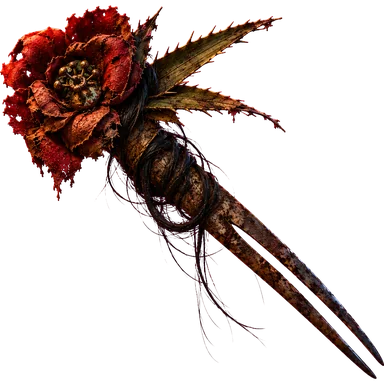
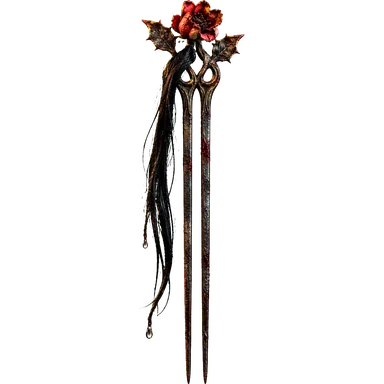
feat(art): 白虎煞／冥婚紅包／林投姐髮簪輪廓重生；抓交替水符改名水鬼名冊；修 webp 失敗時入市被相位閘吞掉；驗收修訂1
Claude-Session: https://claude.ai/code/session_012cazLzg3pXhigPN8g7A1EK

diff --git a/index.html b/index.html
@@ -2775,12 +2775,12 @@ const TRAITS = {
 const CURSES = [
   {n:"冥婚紅包",f:"curse",p:-5,d:"撿到就得娶",curse:true},
   {n:"魔神仔的芭樂",f:"curse",p:0,d:"每輪結束失血 1",curse:true,drain:1},
-  {n:"抓交替水符",f:"curse",p:-4,d:"水鬼的名冊",curse:true},
+  {n:"水鬼名冊",f:"curse",p:-4,d:"水鬼的名冊",curse:true},
   {n:"縛靈鎖",f:"curse",p:-6,d:"鎖魂之鏈",curse:true},
   {n:"白虎煞",f:"curse",p:-3,d:"沖煞入宅",curse:true},
 ];
 /* 詛咒依物件身分分流；舊存檔與異事物也走同一張表。p 僅保留行情用途。 */
-const CURSE_KIND={"冥婚紅包":"wedding","魔神仔的芭樂":"guava","抓交替水符":"water","縛靈鎖":"lock","白虎煞":"tiger","王船煞":"boat"};
+const CURSE_KIND={"冥婚紅包":"wedding","魔神仔的芭樂":"guava","水鬼名冊":"water","縛靈鎖":"lock","白虎煞":"tiger","王船煞":"boat"};
 function curseKind(it){ return it&&it.curse?(CURSE_KIND[it.n]||null):null; }
 function curseCount(p,kind){ return (p.bag||[]).filter(it=>curseKind(it)===kind).length; }
 const DIRS = {0:"南",1:"北",2:"西",3:"東"};
@@ -3249,7 +3249,7 @@ const APPR_PLAIN={
   "飼鬼甕":"2 隻小紙人，每拍交手燒掉對面一隻以上，全隊血 +1。",
   "冥婚紅包":"詛咒：誰袋裡有它，哪晚有標到東西（塞毒標、買下銷毀也算），收市就付 1 壽命禮金。可買下銷毀，或毒標塞給對手。",
   "魔神仔的芭樂":"詛咒：誰袋裡有它，每晚收市扣 1 壽命。可買下銷毀，或毒標塞給對手。",
-  "抓交替水符":"詛咒：持有者夜戰第一次折兵時，再拖一隻血最少的紙紮扣 1 血（每場一次）。可買下銷毀，或毒標塞給對手。",
+  "水鬼名冊":"詛咒：持有者夜戰第一次折兵時，再拖一隻血最少的紙紮扣 1 血（每場一次）。可買下銷毀，或毒標塞給對手。",
   "縛靈鎖":"詛咒：持有者夜戰第 1 拍，最能打的那隻攻擊 −2。可買下銷毀，或毒標塞給對手。",
   "白虎煞":"詛咒：誰袋裡有它，每輸一場夜戰多扣 1 壽命。可買下銷毀，或毒標塞給對手。",
 };
@@ -5212,7 +5212,7 @@ function pwCurseWater(sd,env){
   if(!target) return;
   target.hp-=count;
   pwRec(env,env.beat,sd.tag,null,target.id,"curse",count,false,"curseWater");
-  env.log.push(`💧 抓交替水符：${sd.p.name} 的另一隻紙紮受 ${count} 傷害`);
+  env.log.push(`💧 水鬼名冊：${sd.p.name} 的另一隻紙紮受 ${count} 傷害`);
   if(target.hp<=0) pwBurn(target,sd,env);
 }
 function pwLowest(sd,swarmOnly){
@@ -6128,14 +6128,15 @@ function lifeState(p){ if(!p.alive) return "state-dying"; const r=p.life/CFG.LIF
    human（選角模式不使用的遺留座位）沒有點陣圖，一律走舊 SVG 路徑。 */
 const ART_PIC=(()=>{ try{ return new URLSearchParams(typeof location!=="undefined"&&location.search?location.search:"").get("pic")!=="0"; }catch(e){ return true; } })();
 function picStem(roleId){ const s=CHAR_SVG[roleId]; return s&&roleId!=="human"?s:null; }
+const PIC_BAD=new Set(); /* 已確認載入失敗的 角色+氣色：之後重畫直接出 SVG，不再先插一個 <img>（img→svg 的非同步換手會讓相位閘 sigOf 誤判「手指下的東西變了」、吞掉 500ms 內的下一下點擊） */
 function picFail(img,roleId,stateCls){
-  img.onerror=null;
+  img.onerror=null; PIC_BAD.add(roleId+"|"+stateCls);
   const s=AVSVG[roleId], R=ROLES[roleId];
   const h=s?s.replace("state-healthy",stateCls):((R&&R.av)||"");
   const w=document.createElement("span"); w.innerHTML=h; img.replaceWith(...w.childNodes);
 }
 function avImgHTML(roleId,stateCls){
-  const stem=picStem(roleId); if(!ART_PIC||!stem) return null;
+  const stem=picStem(roleId); if(!ART_PIC||!stem||PIC_BAD.has(roleId+"|"+stateCls)) return null;
   return `<img class="pic ${stateCls}" src="assets/characters/${stem}-${stateCls.slice(6)}.webp?v=${RELEASE_VERSION}" alt="" draggable="false" onerror="picFail(this,'${roleId}','${stateCls}')">`;
 }
 /* 玩家物件 → 頭像 HTML（依壽命帶氣色）；沒有圖就退 SVG、再退 emoji */
@@ -6164,7 +6165,7 @@ const ITEM_IMG={
   山神庇佑:"shanshen",媽祖令旗:"flag",王爺劍:"sword",送王船:"wangchuan",千里眼銅鈴:"bell",五營旗:"wuying",虎爺印:"tiger",香灰符:"ashcharm",
   福壽綿長:"fushou",破軍旗:"pojun",魔神仔紅帽:"redhat",林投姐髮簪:"hairpin",椅仔姑竹椅:"chair",黃色小雨衣:"raincoat",水鬼浮標:"buoy",
   虎姑婆指甲:"nail",陰陽眼銅錢:"yinyangcoin",過陰咒:"guoyin",飼鬼甕:"sigui",冥婚紅包:"curse-wedding",魔神仔的芭樂:"curse-guava",
-  抓交替水符:"curse-water",縛靈鎖:"curse-lock",白虎煞:"curse-tiger"};
+  水鬼名冊:"curse-water",縛靈鎖:"curse-lock",白虎煞:"curse-tiger"};
 function itemImgHTML(it,cls){
   const k=ART_PIC&&ITEM_IMG[it.n];
   if(k) return `<img class="${cls} pic" src="assets/items/${k}.webp?v=${RELEASE_VERSION}" alt="" draggable="false" onerror="this.onerror=null;this.remove()">`;
@@ -8051,7 +8052,7 @@ function pwScreenOf(side,unitId){
 const pwFoe=s=>(s==="B"?"A":"B");
 /* 詛咒的 side 是受咒持有者；鎖降攻，不得演成對手失血。 */
 function pwCurseFeedback(b){
-  const known={curseLock:"縛靈鎖",curseWater:"抓交替水符",curseBoat:"王船煞"};
+  const known={curseLock:"縛靈鎖",curseWater:"水鬼名冊",curseBoat:"王船煞"};
   const name=known[b.trId]||"詛咒";
   const healthLoss=b.trId==="curseWater"||b.trId==="curseBoat";
   return {side:b.side,target:b.target,name,healthLoss,text:known[b.trId]?`${healthLoss?"血量":"攻擊"} −${b.amount|0}`:"效果未登錄"};

diff --git a/tools/art-pipeline/build_assets.py b/tools/art-pipeline/build_assets.py
@@ -40,8 +40,9 @@ AVATAR_CROP = {"duanshou": (250, 170, 1000, 920), "xiaonv": (250, 200, 1000, 950
 # 同名有 v2 重生版者以 v2 為準
 ITEM_FILE_OVERRIDE = {"媽祖令旗": "媽祖令旗_v2", "魔神仔紅帽": "魔神仔紅帽_v2",
                       # 2026-10-07 盲讀 128px 認不出／符紙互相混淆 → 輪廓重生版
-                      "水鬼浮標": "水鬼浮標_v2", "破軍旗": "破軍旗_v2", "抓交替水符": "抓交替水符_v2",
-                      "香灰符": "香灰符_v2", "過陰咒": "過陰咒_v2"}
+                      "水鬼浮標": "水鬼浮標_v2", "破軍旗": "破軍旗_v2", "水鬼名冊": "水鬼名冊_v2",
+                      "香灰符": "香灰符_v2", "過陰咒": "過陰咒_v2", "白虎煞": "白虎煞_v2",
+                      "冥婚紅包": "冥婚紅包_v2", "林投姐髮簪": "林投姐髮簪_v2"}
 AV_SIZE, BIG_SIZE, ICON_SIZE, ICON_LG_SIZE = 320, 640, 128, 384
 WEBP_Q = 85
 
@@ -150,7 +151,7 @@ def main():
     items = parse_items(os.path.join(out, "index.html"))
     manifest = {"items": {}, "characters": {}, "bg": {}}
     sheet_imgs = []
-    sheet_default = {"破軍旗", "陰陽眼銅錢", "抓交替水符", "王爺劍", "過陰咒", "香灰符", "縛靈鎖", "福壽綿長", "冥婚紅包", "魔神仔的芭樂", "白虎煞"}
+    sheet_default = {"破軍旗", "陰陽眼銅錢", "水鬼名冊", "王爺劍", "過陰咒", "香灰符", "縛靈鎖", "福壽綿長", "冥婚紅包", "魔神仔的芭樂", "白虎煞"}
     sheet_names = set(args.sheet_names.split(",")) if args.sheet_names else sheet_default
 
     for name, key, kind in items:

diff --git a/docs/experiments/2026-10-07-realistic-art/acceptance.md b/docs/experiments/2026-10-07-realistic-art/acceptance.md
@@ -10,3 +10,8 @@
 6. 結算不變：`?pic=0` 與預設兩種下 trace(1..20) 與 85c38c6a 逐位元組相等（純呈現）。
 7. 盲讀（fresh agent 只看截圖，無對話史）：32 件圖示在小圖尺寸下，每件能說出「這是什麼東西」且與品名大類相符 ≥ 28/32；10 角色三態頭像能分辨健康／蒼白／瀕死。未達標列出哪幾件，回報使用者，不改門檻。
 8. 全套測試：相關測試（art-asset-map、*avatar*、*item*、bridge 相關）必跑；全套 11 分鐘有被記憶體殺掉的前例，未跑全套就明寫「未跑全套」。
+
+## 修訂 1（2026-10-07 晚，使用者同意改名；原標準錯在哪、為什麼現在才知道）
+- 條件 6 原文「trace 與 85c38c6a 逐位元組相等」：當時不知道要改引擎鍵。使用者裁定把「抓交替水符」改名「水鬼名冊」（品名與說明、圖示一致），該名稱是引擎鍵，序列化後的 trace 必含新名。**改為：把輸出中的「水鬼名冊」換回「抓交替水符」後，與 85c38c6a 的 trace(1..20) 逐位元組相等；並附活性證據：不換回時必不相等、且 trace 內「水鬼名冊」出現次數 >0。** 這個修訂不讓壞實作變通過（換名映射是 1 對 1，其他差異仍會紅）。
+- 條件 7 原文未規定看圖方式，第 1 輪（放大 256px）與第 2 輪（拼圖）結果不可比。**固定協定：每張 128×128 原生單獨看、疊 #202020、不拼圖；≥2 位全新 rater 各自獨立，欄 A（按品名，拿不準算不符）每位都 ≥28/32 才算過**（比原文只一位更嚴）。第 1~4 輪歷史：29(放大)／25(拼圖)／26／28。
+- 新增條件 9：webp 載入失敗時，選角後 500ms 內按「入市」不被吞（agent 查出的真缺陷，修法 PIC_BAD；紅綠迴圈 `RAW=1 D=100 node rg.mjs <root> <port> abort`，修前 5/5 RED、修後 5/5 GREEN，不攔截與慢載入不退步）。
